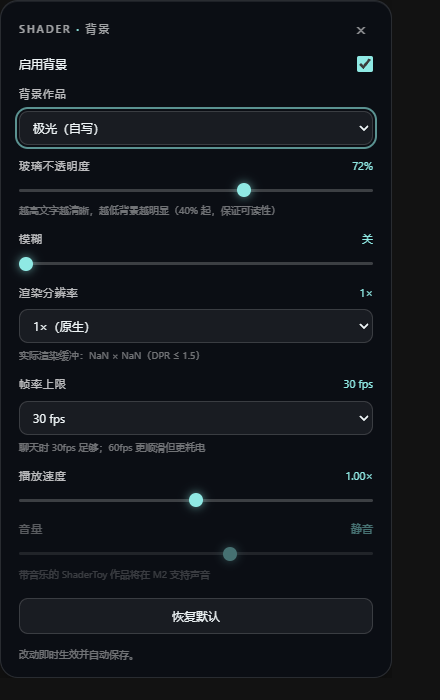
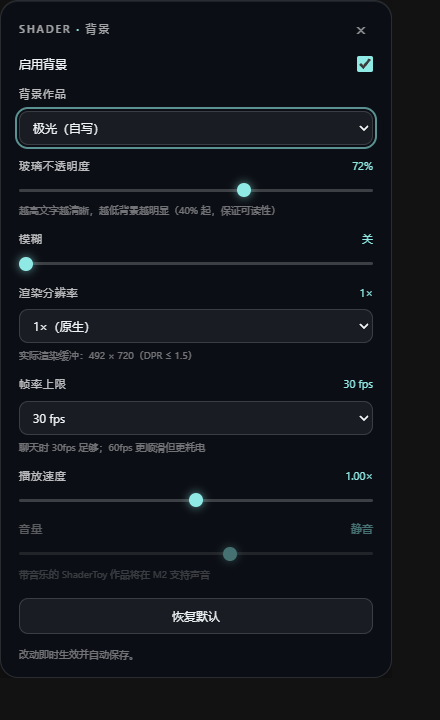
docs: sanitize machine path and mark the original AI plan as superseded before publishing

diff --git a/docs/research/01-api.md b/docs/research/01-api.md
@@ -67,7 +67,7 @@ type IndexInjection =
 ## 4. 持久化的真实可用选项（排序）
 
 **(a) Host 端 node:fs 写 `$DSH_HOME/shader-skin.json` + Host HTTP 路由 —— 推荐** [核验]
-- Host 插件就是普通 Node ESM，可直接 `import { readFile, writeFile, rename } from 'node:fs/promises'`（open-sea-skin `plugin/index.js:6` 即如此）；`$DSH_HOME` 由宿主环境给出（本机 `C:\Users\HUAWEI\.dsh`；解析规则 `$DSH_HOME` → `~/.dsh`，`dsh-home-paths/lib/index.js:109-111`）。写临时文件+rename 原子替换，避免半截 JSON。
+- Host 插件就是普通 Node ESM，可直接 `import { readFile, writeFile, rename } from 'node:fs/promises'`（open-sea-skin `plugin/index.js:6` 即如此）；`$DSH_HOME` 由宿主环境给出（默认 `~/.dsh`；解析规则 `$DSH_HOME` → `~/.dsh`，`dsh-home-paths/lib/index.js:109-111`）。写临时文件+rename 原子替换，避免半截 JSON。
 - 客户端读写：Host `ctx.effect(() => ctx.webServer.register({kind:'prefix', path:'/shader-skin', handler}))`，client 用**相对页面基址** fetch；桌面下 `dsh-app://app/shader-skin/...` 被 shell 转发到 Host 同源（MAIN:12406-12413），生产先例 `dsh-better-sidebar` 的 `/sidebar/api/*`（`src/index.ts:1447-1488`）+ client `hostRouteUrl`/`hostHttpBase`（`src/client/host-route-url.ts`、`desktop-env.ts:34-57`）。**不要**用 `__DSH_TRANSPORT__.streamBaseUrl` 发 HTTP（那是 Host 真实 origin，跨源且插件路由没有 CORS 头 → 浏览器直接失败）。
 - `ctx.fs` 不需要：它是抽象 FS provider（`writeText(target, content, expected?, signal?, sandboxPolicy?)`），面向工具/会话沙箱；插件写自己的配置文件用 node:fs 更直接。
 

diff --git a/docs/original-plan.md b/docs/original-plan.md
@@ -1,5 +1,8 @@
 # dsh 桌面版 ShaderToy 实时背景皮肤插件实现方案
 
+> ⚠ 这是最初由 AI 生成、**未经核验**的方案草稿，其中多条外部断言已被证伪（路线分类、`script-src` 红线、音频纹理布局、许可证措辞等）。
+> 保留它只为记录决策起点，**不要按它施工**——以 [00-决策与方案复核.md](00-决策与方案复核.md) 与当前 README 为准。
+
 # 结论摘要
 
 结论先行：完全可行。dsh（DeepSeek Harness）桌面版基于 Cordis「一切皆插件」架构，背景皮肤本质是一个 cordis 插件 \+ 一个轻量 WebGL 渲染器；你的 24 个初选 ShaderToy 作品不需要重型引擎，只需一个几百行的 WebGL2 迷你运行时即可实时渲染，声音同样支持（ShaderToy 的声音本来就是 GLSL，走 WebAudio 播放、音量用 GainNode 滑块）。社区已有 900\+ 主题/皮肤插件跑通同类能力（open\-sea\-skin 的实时 WebGPU 海洋、dsh\-video\-skin 的有声片头\+背景，都是可直接参照的先例）。
